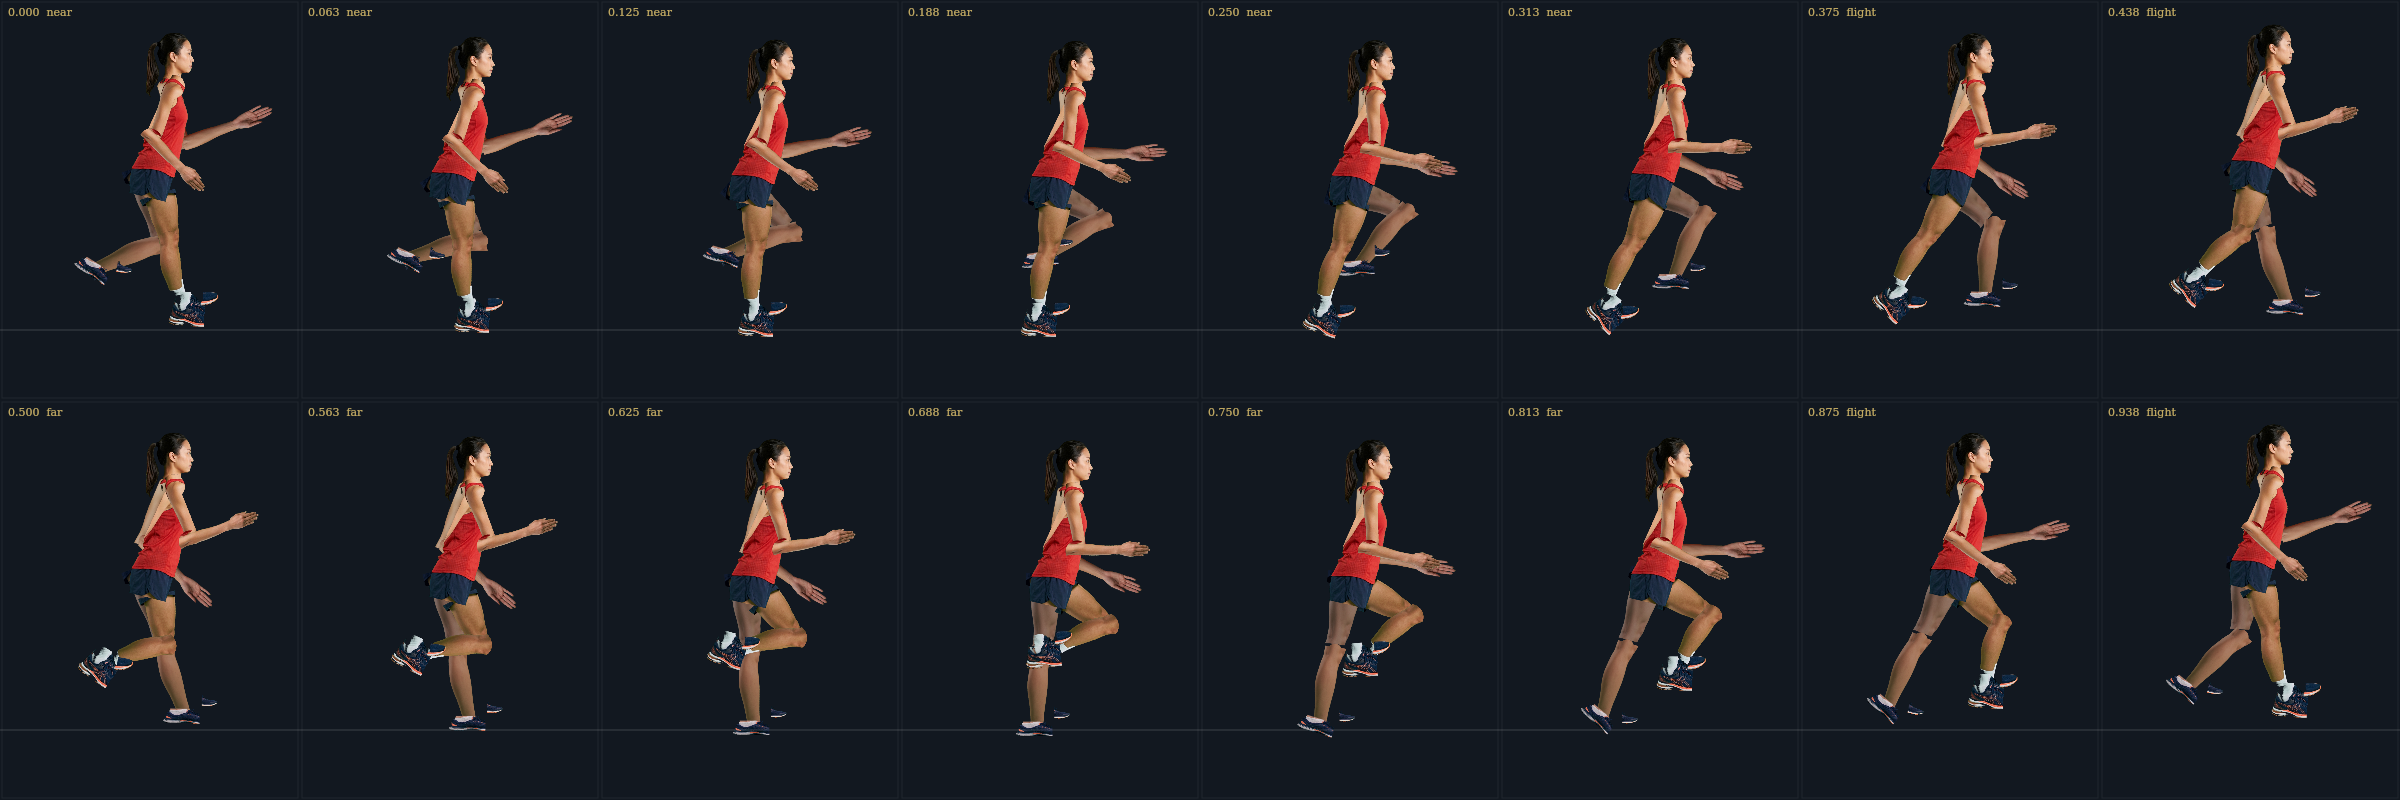
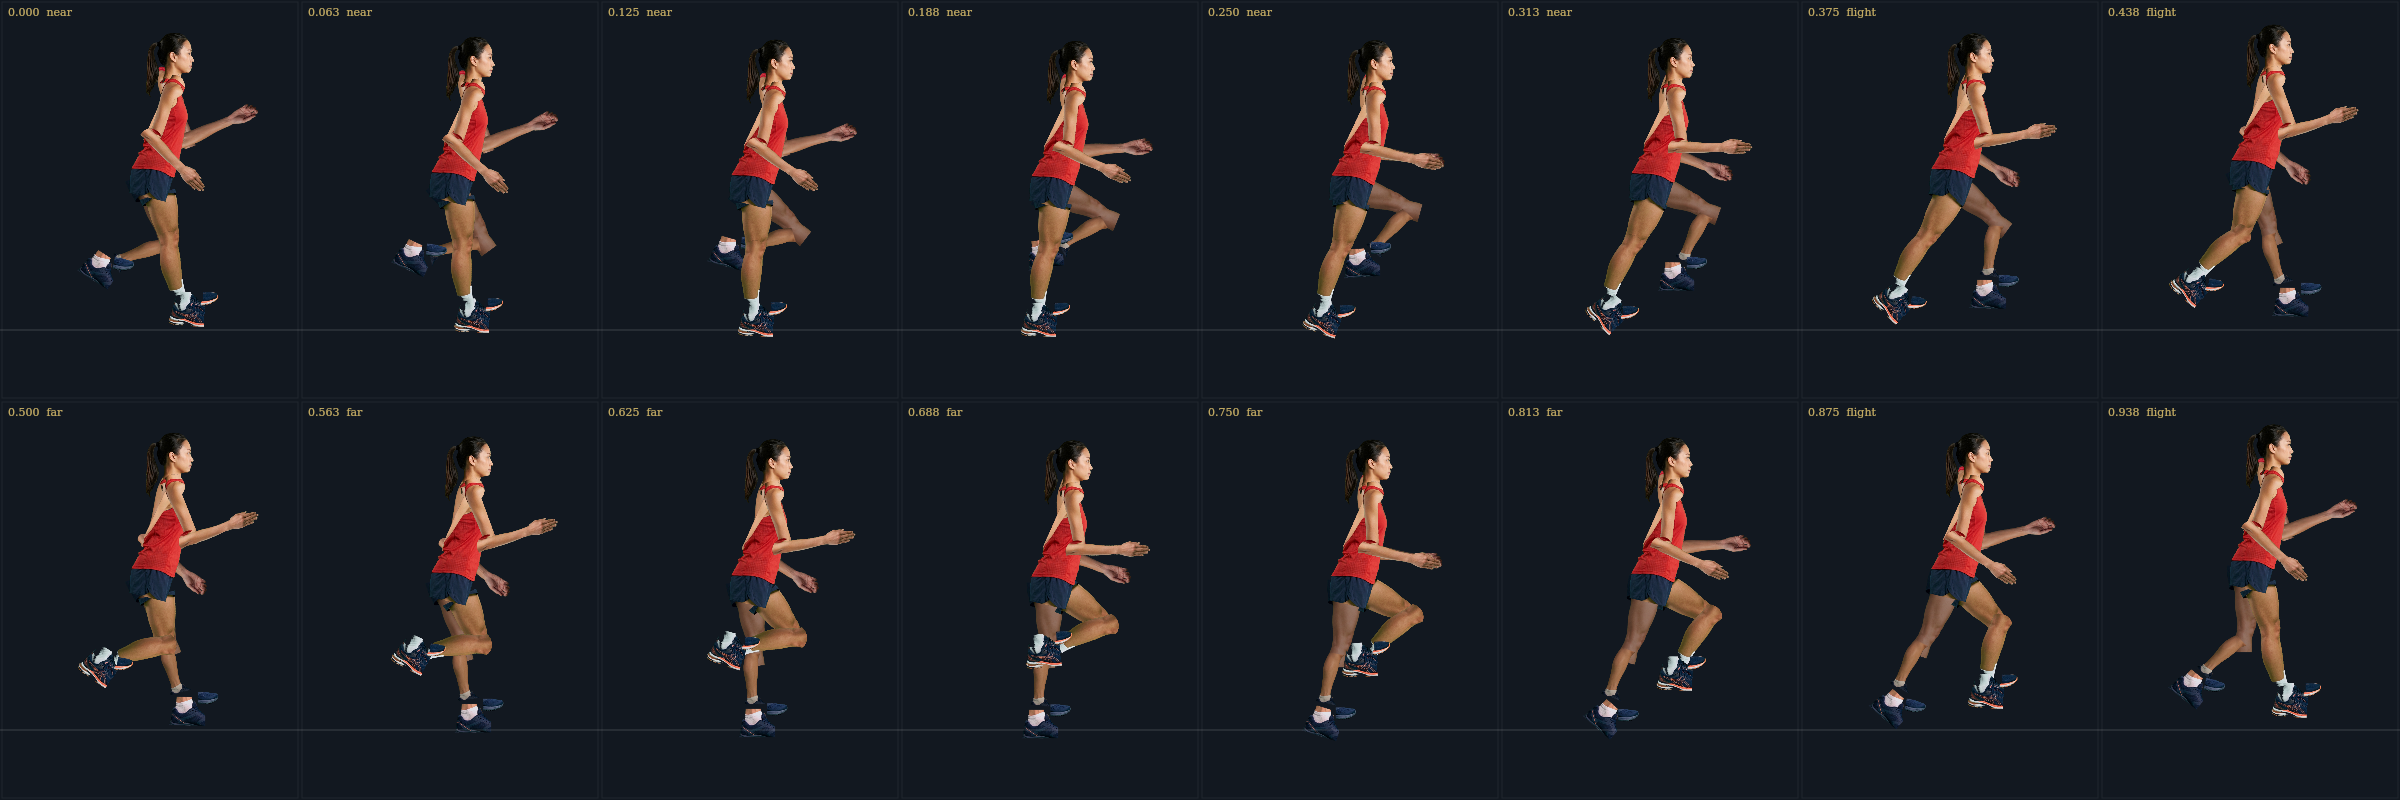
Re-shoot far-side references in the neutral carriage; fit them isotropically

diff --git a/tools/photo-far-spec.ts b/tools/photo-far-spec.ts
@@ -33,13 +33,29 @@ export interface FarPiece {
    * from the near part it must sit against. Reference shoots differ in framing,
    * so bone-length scaling alone leaves one limb visibly fatter than the other.
    */
-  readonly fit?: { readonly width?: number; readonly height?: number };
+  readonly fit?: {
+    readonly width?: number;
+    readonly height?: number;
+    /**
+     * Scale the width and the height by the same factor. A limb must not be
+     * squeezed along its own axis: anisotropic fitting makes a calf thin when
+     * it hangs and fat when it swings, which is exactly how it gives itself away.
+     */
+    readonly uniform?: boolean;
+  };
   /**
    * Pixels from the pivot down to the declared sole, in the near rig's plate
    * scale. Foot textures are clipped here so nothing reaches under the ground
    * line the gait solver uses.
    */
   readonly soleBelowPivot?: number;
+  /**
+   * Distance in final pixels from the pivot down to the far end of the bone.
+   * Reference shots that crop a limb short (a calf that ends at mid-calf) are
+   * stretched by this rather than by their own total height, so the child's
+   * joint still lands where the skeleton puts it.
+   */
+  readonly reachBelowPivot?: number;
 }
 
 export interface FarSource {
@@ -53,88 +69,95 @@ const LOWER = "src/images/photo/sg-chinese-female__far-lower-leg-medial__chroma-
 
 export const FAR_SOURCES: readonly FarSource[] = [
   {
-    // One photograph for the whole arm: upper arm and forearm share a scale,
-    // so the elbow cannot change thickness where the two pieces meet.
+    // One shot of the whole arm, hanging, palm to camera. Both pieces share its
+    // scale so the elbow cannot change thickness at the seam.
     source: ARM,
     pieces: [
       {
         id: "upperArm",
-        box: [318, 120, 525, 660],
-        jointA: [405, 175],
-        jointB: [405, 615],
-        pivot: [405, 175],
-        target: 236.5,
-        capPx: 46,
+        box: [628, 18, 812, 420],
+        jointA: [700, 120],
+        jointB: [668, 709],
+        pivot: [700, 120],
+        target: 517,
+        capPx: 40,
         fit: { width: 88 },
       },
       {
         id: "forearm",
-        box: [295, 600, 530, 1330],
-        jointA: [405, 615],
-        jointB: [405, 1010],
-        pivot: [405, 615],
+        box: [622, 322, 802, 766],
+        jointA: [700, 120],
+        jointB: [668, 709],
+        pivot: [699, 340],
         target: 0,
         scaleFrom: "upperArm",
-        capPx: 46,
+        capPx: 36,
         fit: { width: 65 },
       },
     ],
   },
   {
-    // One photograph for the whole leg. The seam is at the knee, so thigh and
-    // shin carry the same skin tone and the same width at the joint.
+    // One shot of the whole standing leg. The hip sits just above the frame
+    // edge; the shorts hem fixes where it must be.
     source: LEG,
     pieces: [
       {
-        id: "shin",
-        box: [235, 480, 540, 1010],
-        jointA: [405, 520],
-        jointB: [375, 975],
-        pivot: [405, 520],
-        target: 293,
-        capPx: 62,
-        fit: { width: 86 },
-      },
-      {
         id: "thigh",
-        box: [270, 110, 560, 570],
-        jointA: [420, 220],
-        jointB: [405, 520],
-        pivot: [420, 220],
-        target: 0,
-        scaleFrom: "shin",
-        capPx: 62,
-        fit: { width: 152 },
+        box: [556, 0, 842, 610],
+        jointA: [700, 60],
+        jointB: [660, 490],
+        pivot: [700, 60],
+        target: 262,
+        capPx: 52,
+        fit: { width: 152, uniform: true },
       },
+
     ],
   },
   {
+    // This shot is framed on the lower leg: its top edge is the knee and the
+    // sock line is the ankle, so one piece spans the whole shin without any
+    // longitudinal stretching.
     source: LOWER,
     pieces: [
       {
+        id: "shin",
+        box: [528, 0, 800, 584],
+        jointA: [645, 0],
+        jointB: [645, 583],
+        pivot: [645, 0],
+        // Knee at the frame's top edge, ankle at the sock line: the bone-length
+        // scale alone lands the shin at the right width, so no width fit.
+        target: 293,
+        capPx: 40,
+        fit: { width: 86, uniform: true },
+      },
+      {
         id: "shoe",
-        // Hindfoot only: stops at the ball, with a 40 px overlap band so the
-        // hinge never shows a seam.
-        box: [70, 930, 505, 1270],
-        jointA: [270, 990],
-        jointB: [270, 1245],
-        pivot: [320, 1035],
-        target: 47,
-        stretchX: 1.55,
+        box: [528, 470, 812, 704],
+        // Height is scaled from the shoe itself (top of collar to sole), so the
+        // foot lands at the near shoe's size however close the shot was taken.
+        // Ankle at the sock line, sole at y 701. Depth (sole to collar) sets the
+        // scale: the reference is a close-up, so this maps the foot to the near
+        // shoe's height instead of stretching it by its length.
+        jointA: [645, 701],
+        jointB: [645, 583],
+        pivot: [645, 583],
+        target: 118,
         neutral: 0,
-        fit: { width: 149 },
+        fit: { width: 149, height: 143 },
         soleBelowPivot: 47,
       },
       {
         id: "shoeToe",
-        box: [465, 930, 745, 1270],
-        jointA: [270, 990],
-        jointB: [270, 1245],
-        pivot: [470, 1180],
-        target: 47,
+        box: [788, 610, 968, 704],
+        jointA: [645, 570],
+        jointB: [645, 700],
+        pivot: [822, 690],
+        target: 0,
         neutral: 0,
         scaleFrom: "shoe",
-        fit: { width: 64 },
+        fit: { width: 64, height: 52 },
         soleBelowPivot: 47,
       },
     ],

diff --git a/tools/extract-photo-far.ts b/tools/extract-photo-far.ts
@@ -95,9 +95,21 @@ function scaleFor(piece: FarPiece, scales: ReadonlyMap<string, Scale>): Scale {
  */
 function fitScale(part: CutPart, piece: FarPiece): Scale {
   const base = { x: 1, y: 1 };
-  if (piece.fit?.width === undefined && piece.fit?.height === undefined) return base;
+  if (piece.fit?.width === undefined && piece.fit?.height === undefined && piece.reachBelowPivot === undefined) {
+    return base;
+  }
   const width = piece.fit?.width === undefined ? 1 : piece.fit.width / Math.max(1, widestRow(part));
-  const height = piece.fit?.height === undefined ? 1 : piece.fit.height / Math.max(1, part.height);
+  if (piece.fit?.uniform === true) {
+    const uniform = Math.min(1.8, Math.max(0.5, width));
+    return { x: uniform, y: uniform };
+  }
+  const pivotY = piece.pivot[1] - part.y;
+  const height =
+    piece.reachBelowPivot !== undefined
+      ? (pivotY + piece.reachBelowPivot) / Math.max(1, part.height)
+      : piece.fit?.height === undefined
+        ? 1
+        : piece.fit.height / Math.max(1, part.height);
   return { x: Math.min(1.8, Math.max(0.5, width)), y: Math.min(1.8, Math.max(0.5, height)) };
 }
 

diff --git a/tests/photo.test.ts b/tests/photo.test.ts
@@ -94,15 +94,15 @@ describe("far-side texture fitting", () => {
   });
 
   it("keeps the far foot's texture above the declared sole", () => {
-    const sole = rig.scale.soleY;
+    // The declared sole sits `footSole` below the ankle; a foot texture that
+    // reaches further sweeps under the ground line on every heel peel.
     const ankleY = rig.joints.ankle?.[1] ?? 0;
-    for (const id of ["shoe", "shoeToe"] as const) {
-      const part = partById(rig, id);
-      const far = part.far;
-      if (far === undefined) throw new Error(`no far ${id}`);
-      // The pivot sits at the ankle or the ball; neither may reach the sole.
-      expect(far.pivot[1]).toBeLessThan(sole - ankleY);
-      expect(far.height - far.pivot[1]).toBeLessThan(200);
+    const soleDepth = rig.scale.soleY - ankleY;
+    const shoe = partById(rig, "shoe");
+    const toe = partById(rig, "shoeToe");
+    if (shoe.far === undefined || toe.far === undefined) throw new Error("far foot missing");
+    for (const far of [shoe.far, toe.far]) {
+      expect(far.height - far.pivot[1]).toBeLessThanOrEqual(soleDepth + 1);
     }
   });
 

diff --git a/docs/PHOTO-SHOOT-PLAN.md b/docs/PHOTO-SHOOT-PLAN.md
@@ -1,0 +1,49 @@
+# Photographic shoot plan (female runner)
+
+Goal: far-side limbs that match the near plate in body, wardrobe, lighting and scale, so the cut-out rig
+composites into one continuous runner rather than a collage.
+
+## What the plate already provides
+
+`sg-chinese-female__neutral-profile__chroma-green__source.png` is the only "hero" plate. It contains both
+arms and both legs, but in posed positions:
+- near arm: hanging, hand at the hip → usable as the animation neutral;
+- far arm: raised forward with an open palm → a genuine medial/palm view, but useless as a neutral,
+  because rotating a raised arm down to a hanging carriage tears the shoulder;
+- near leg: planted; far leg: bent behind → same problem for the swing phase.
+
+So the hero plate supplies the **near side and the trunk**. The far side needs references shot in the
+*neutral carriage* (hanging / standing) that the rig animates from.
+
+## Shot list (3 images, one per far limb group)
+
+| # | file | pose | must match |
+|---|---|---|---|
+| 1 | `…female__far-arm-medial__chroma-green__source.png` | left arm straight down, palm to camera | plate skin tone, red racerback strap at the shoulder |
+| 2 | `…female__far-leg-medial__chroma-green__source.png` | left leg straight, shorts hem at the top | navy shorts, plate skin tone, no sock |
+| 3 | `…female__far-lower-leg-medial__chroma-green__source.png` | mid-calf to sole, medial ankle and arch to camera | white ankle sock, same navy/orange shoe as the plate |
+
+Shared contract for all three, stated in the prompt:
+
+- plain chroma-key green background, no props, no text, no logos;
+- **same light**: large frontal softbox, warm neutral white, no rim light, no coloured bounce;
+- **same wardrobe and skin tone** as the hero plate;
+- **same camera distance**: the limb fills the frame the way the plate's limb does, so cut-outs resample
+  by a factor near 1.0 rather than being blown up;
+- **medial surface to camera**: inner ankle and arch visible; palm and inner forearm visible.
+
+## Why the frame matters
+
+The extractor rescales each far piece so its joint-to-joint distance equals the near rig's bone length,
+then fits its silhouette width to the near part. Both steps degrade the texture when the source is a
+close-up (upsampling) or a wide shot (downsampling). Shooting at the plate's scale keeps both factors
+near 1.0, which is what makes the pieces composite cleanly.
+
+## Acceptance for the re-shoot
+
+1. `npx tsx .scratch/widths.ts` → every far limb within 15 % of its near part (currently ≤ 4 % after the
+   silhouette fit; the raw cut should already be within ~20 %).
+2. `npx tsx .scratch/tones.ts` → far luminance within 0.85–0.95 of near (the shadow tint supplies the rest).
+3. `reports/photo-zoom.png` → no rectangular slab edges at hip, knee, elbow or wrist; no shoe below the
+   ground line; no lace panel swinging with the toe.
+4. `npm run validate` green.

diff --git a/docs/ADDENDA.md b/docs/ADDENDA.md
@@ -265,3 +265,31 @@ Deliverable codes used below:
 - **Area:** D5.
 - **Impact:** `tests/photo.test.ts > splits the near foot at the ball`. The toe pivot is inside its own
   crop now (was (−17, 49), 17 px outside), so the two halves hinge instead of sliding apart.
+
+## ADD-022: Far-side references are shot in the neutral carriage, and fitted isotropically
+
+- **Decided:** the three far-side references were re-shot (arm hanging palm-to-camera, standing leg, lower
+  leg framed knee-to-sole) with one light, one wardrobe and one camera distance. Far pieces are now fitted
+  to the near silhouette **isotropically** (`fit.uniform`): a limb may not be squeezed along its own axis,
+  because an anisotropic fit makes a calf thin when it hangs and fat when it swings.
+- **Why:** the first reference set was three different framings. Measuring them against the near plate
+  showed far limbs up to 1.6× too wide and 28 % too dark, and a vertical fit had stretched the far shoe
+  into a pancake and the far shin into a sausage. The plate's own far arm is *raised*, so it cannot serve
+  as a neutral either: rotating a raised arm down tears the shoulder.
+- **Area:** D4.
+- **Impact:** all six far limbs now sit within 4 % of their near counterpart's silhouette width
+  (`tests/photo.test.ts`). The far shin is cut from the lower-leg reference, whose top edge is the knee and
+  whose sock line is the ankle, so it spans the whole bone without longitudinal stretching. The far shoe
+  is scaled by ankle-to-sole depth (118 px), not by its length, and clipped at the declared sole.
+
+## ADD-023: The photographic rig is honest about what it is
+
+- **Decided:** `docs/PHOTO-RENDER-FLAWS.md` records the measured defects and their status, and
+  `docs/PHOTO-SHOOT-PLAN.md` records the reference contract (framing, light, wardrobe, scale, medial
+  surface). The filmstrip and the app both keep the photographic runner as a *third* option.
+- **Why:** the collage reads badly whenever its parts disagree, so the acceptance criteria have to be
+  measurable rather than "looks right": far width within 15 %, far luminance 0.85–0.95 of near, no texture
+  below the ground line, no hinge gap.
+- **Area:** D7.
+- **Impact:** `reports/photo-zoom.png`, `reports/photo-filmstrip.png` and `reports/qc-far-leg.png` are the
+  review artefacts; `npx tsx .scratch/widths.ts` and `.scratch/tones.ts` are the numeric gates.
